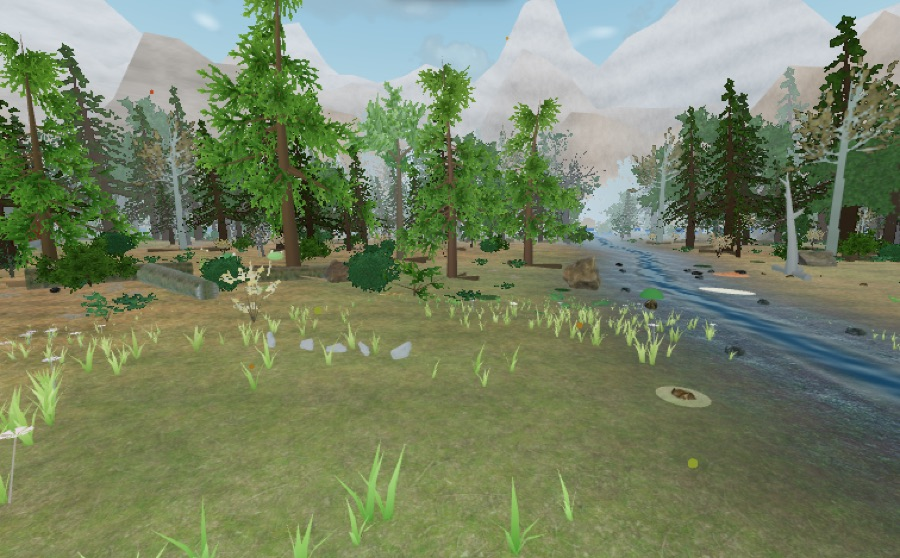
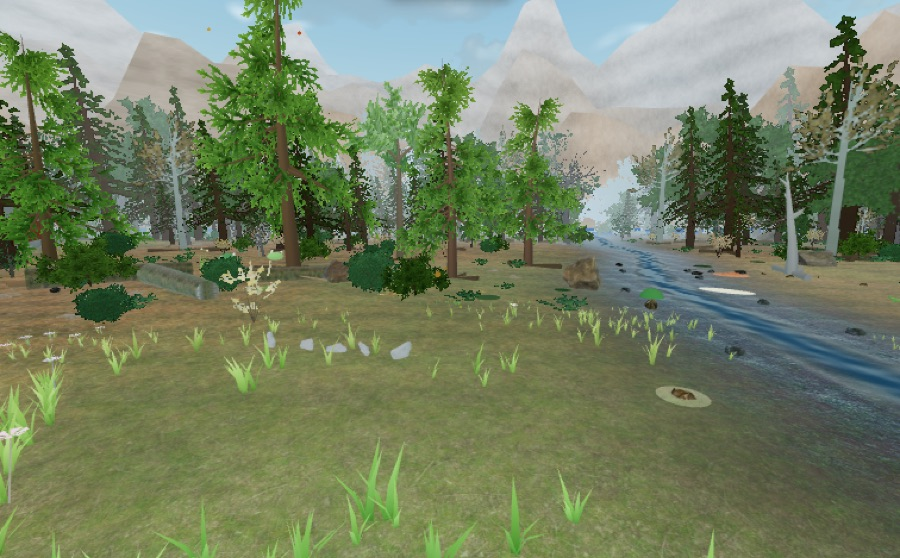
Polish 2.5: grass clear around structures, darker sapling and moss, structure, fire and night shots, perf and playtest notes

diff --git a/src/systems/grass-system.ts b/src/systems/grass-system.ts
@@ -4,6 +4,7 @@
 // wind is a vertex-shader sway. They are walk-through scenery: nothing gameplay-related reads them.
 
 import { BufferAttribute, BufferGeometry, createSystem, DoubleSide, DynamicDrawUsage, InstancedBufferAttribute, InstancedMesh, MeshLambertMaterial, Vector3 } from '@iwsdk/core';
+import { BLUEPRINTS } from '../game/blueprint.js';
 import { valueNoise } from '../game/rng.js';
 import { groundHeight, inClearing, nearestTreeDistance, streamDistance } from '../game/world-layout.js';
 import { getGame } from './shared.js';
@@ -161,6 +162,7 @@ export class GrassSystem extends createSystem({}) {
     const col = this.mesh.instanceColor!.array as Float32Array;
     const farr = this.flowers.instanceMatrix.array as Float32Array;
     const fcol = this.flowers.instanceColor!.array as Float32Array;
+    const structs = getGame(this.world).structures;
     const n0x = Math.floor(cx / CELL);
     const n0z = Math.floor(cz / CELL);
     const span = Math.ceil(RADIUS / CELL);
@@ -188,6 +190,13 @@ export class GrassSystem extends createSystem({}) {
           const d = Math.hypot(x - cx, z - cz);
           if (d > RADIUS) continue;
           if (streamDistance(x, z) < 0.95 || nearestTreeDistance(x, z, 0.5) < 0.4) continue;
+          // Keep the ground clear where you have built: camp pieces are not buried in grass.
+          let built = false;
+          for (let q = 0; q < structs.length; q++) {
+            const st = structs[q];
+            if (Math.hypot(st.x - x, st.z - z) < BLUEPRINTS[st.kind].radius + 0.55) built = true;
+          }
+          if (built) continue;
           const fade = d < FADE_FROM ? 1 : 1 - (d - FADE_FROM) / (RADIUS - FADE_FROM);
           const s = (0.6 + hash(ix, iz, k * 3 + 3) * 0.7 + dens * 0.2) * fade;
           if (s < 0.05) continue;

diff --git a/src/scene-assets/item-meshes.ts b/src/scene-assets/item-meshes.ts
@@ -107,7 +107,7 @@ const builders: Record<ResourceLook, () => Object3D> = {
     // A slim trunk with soft, smooth-shaded leaf masses (no faceted solids).
     const g = new Group();
     g.add(at(new Mesh(new CylinderGeometry(0.02, 0.035, 1.2, 10), lambert(0x6b5a3a)), 0, 0.6, 0));
-    const tones = [0x3f6e2a, 0x4a7a30, 0x55883a];
+    const tones = [0x2c4f1f, 0x35602a, 0x3f6e2f];
     [[0.7, 0.2], [0.95, 0.18], [1.2, 0.14]].forEach(([y, s], i) => {
       const puff = new Mesh(new SphereGeometry(s, 10, 8), lambert(tones[i]));
       puff.scale.set(1, 0.8, 1);
@@ -118,7 +118,7 @@ const builders: Record<ResourceLook, () => Object3D> = {
   mossRock: () => {
     const g = new Group();
     g.add(at(stone(0xb0aca0, 0.11, 3), 0, 0, 0));
-    g.add(at(new Mesh(new SphereGeometry(0.21, 10, 6, 0, Math.PI * 2, 0, Math.PI / 2.4), lambert(0x3f6a33)), 0, 0.17, 0));
+    g.add(at(new Mesh(new SphereGeometry(0.21, 10, 6, 0, Math.PI * 2, 0, Math.PI / 2.4), lambert(0x2f4f26)), 0, 0.17, 0));
     return g;
   },
   straightStick: () => at(new Mesh(new CylinderGeometry(0.02, 0.022, 0.8, 10), lambert(0xc49a66)), 0, 0.36, 0, 0, 0, -0.3),

diff --git a/docs/PERF_REPORT.md b/docs/PERF_REPORT.md
@@ -233,3 +233,10 @@ Standard viewpoint (UI hidden): 213 draw calls, **232,134 triangles** (was 253,9
 Item 2 changes colours and one fragment tweak only (no geometry). Item 3: grass is laid out in two passes (cells within 4.5 m first, with 3 extra tufts per cell and 1.45x patch density;
 then the ring out to 8.5 m, thinning with distance), 1,450 tufts at most; forest-floor debris is 450 twigs and 1,000 leaf cards (static, chunk-culled); the ground is darker under the
 canopy. Tree LOD distances 4.5/10.5/19.5 m. Standard viewpoint: 214 draw calls, **230,148 triangles**, CPU 4.72 ms (budget 240k). Mountain tessellation 112 x 4.
+
+### Polish pass 2, item 5 and final numbers
+
+Grass is now kept clear around built structures. The structure and fire shots (workbench, fire pit with a burning fire and smoke, lean-to, drying rack, bed, woodstack) show that the
+existing models read fine under the new lighting; fire, smoke and the ground glow were already soft shader effects and are unchanged. With all six structures standing and the fire lit,
+the standard viewpoint is 223 draw calls and **233,904 triangles**, CPU 4.84 ms (budget 240k). Playtests after this pass: `story-check.mjs` Chapter 1 play-through (workbench complete, fire
+lit, no errors) and `tutorial-check.mjs` (enters, reports its first lesson) pass; `playtest.mjs` was not run again (it already failed at the workbench step before this pass).
